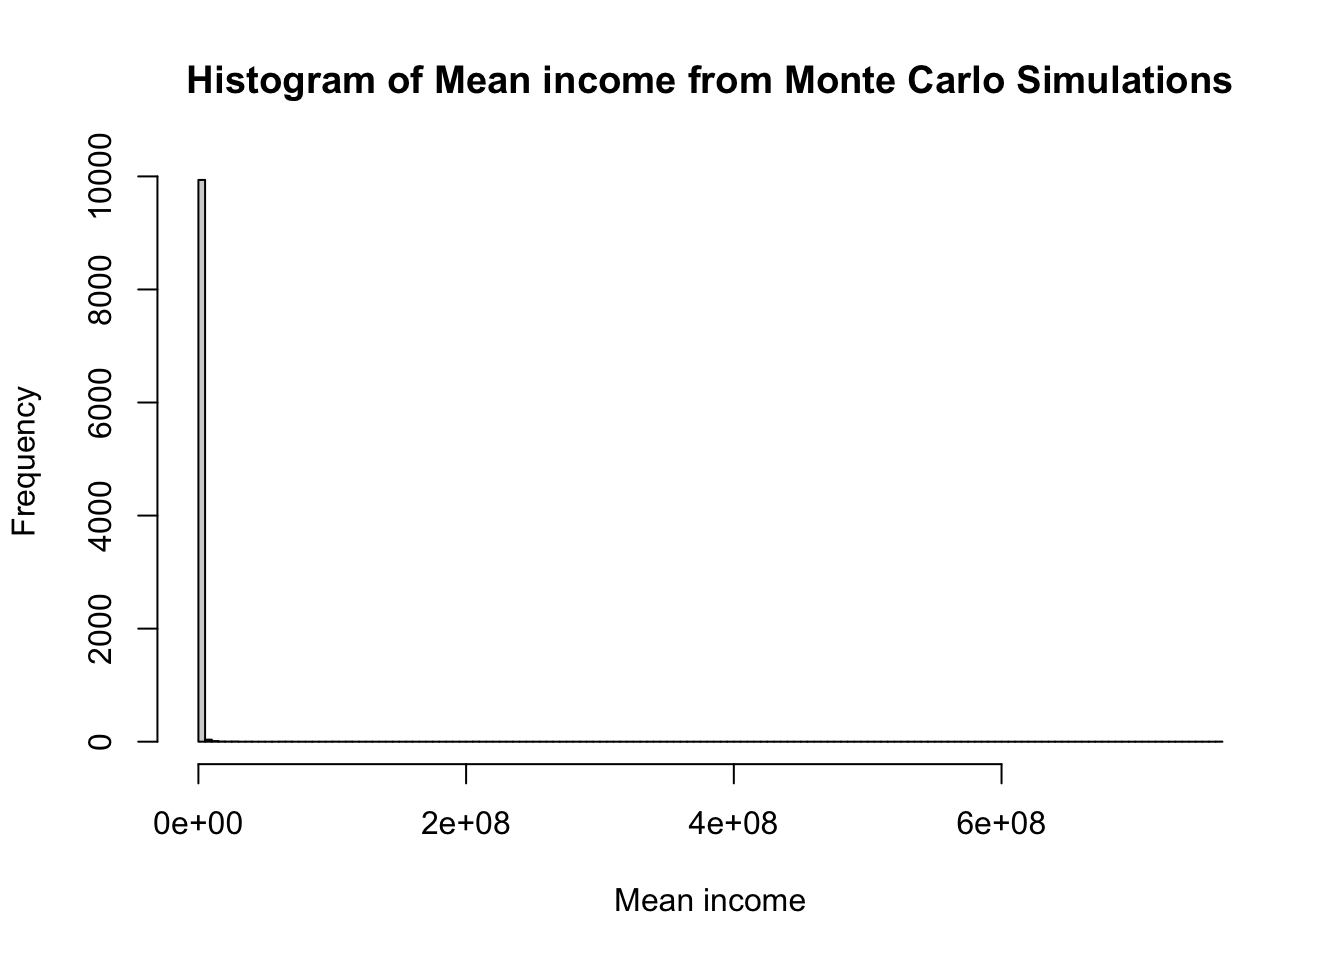
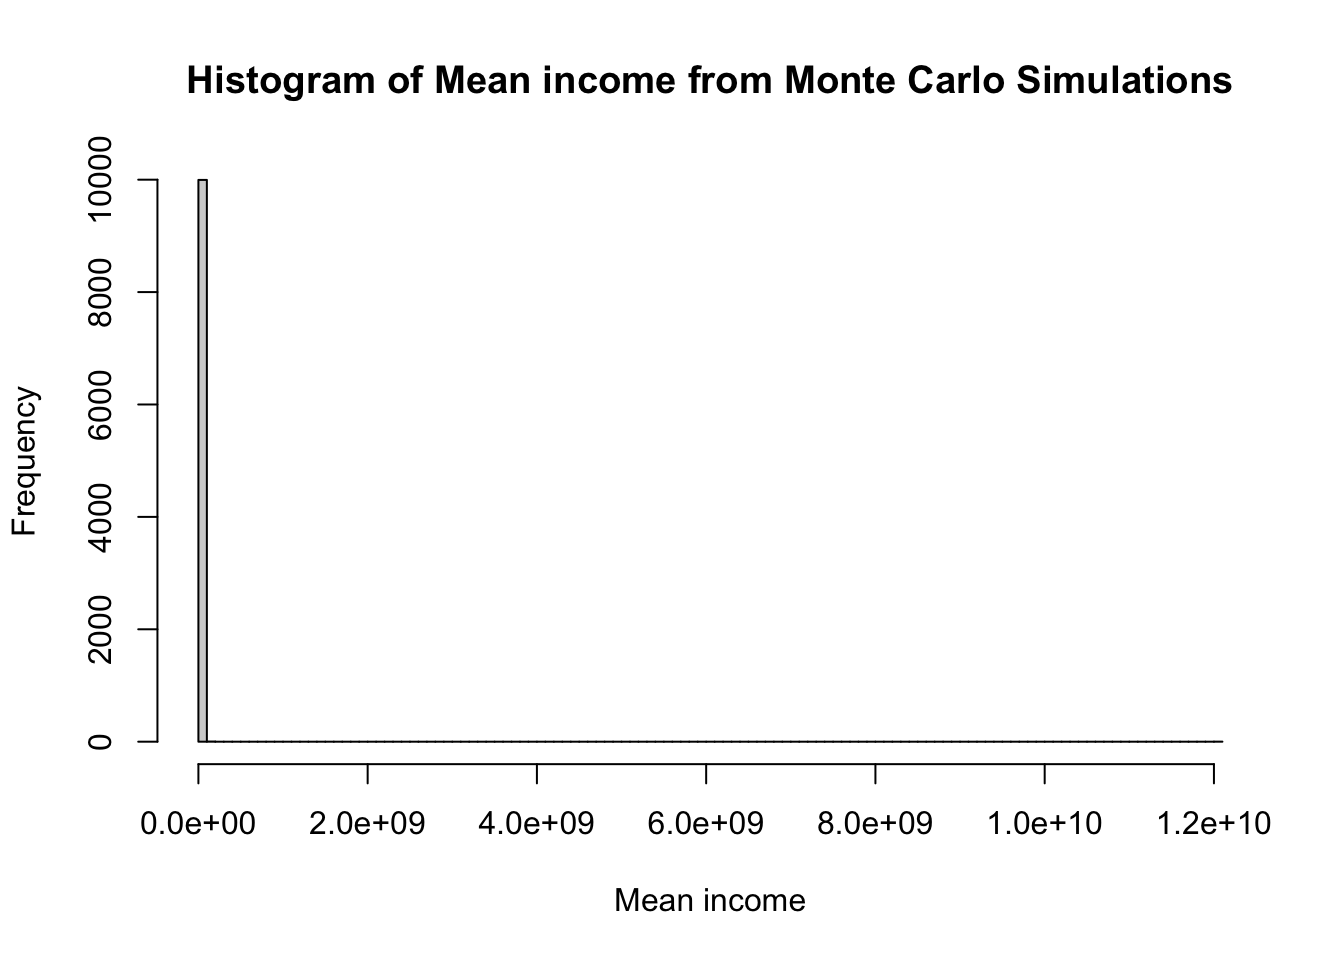
after quarto problem 281124

diff --git a/docs/posts/montecarlo.html b/docs/posts/montecarlo.html
@@ -1977,7 +1977,7 @@ Income distribution is not normal
 </details>
 <div class="cell-output cell-output-stdout">
 <pre><code>     Min.   1st Qu.    Median      Mean   3rd Qu.      Max. 
-   205993    297543    346723    636755    444049 764563628 </code></pre>
+2.114e+05 2.958e+05 3.430e+05 1.767e+06 4.386e+05 1.201e+10 </code></pre>
 </div>
 <details open="" class="code-fold">
 <summary>Code</summary>
@@ -1985,7 +1985,7 @@ Income distribution is not normal
 </details>
 <div class="cell-output cell-output-stdout">
 <pre><code>   Min. 1st Qu.  Median    Mean 3rd Qu.    Max. 
-  62017   64064   64496   64503   64936   66958 </code></pre>
+  61970   64072   64504   64510   64942   67368 </code></pre>
 </div>
 <details open="" class="code-fold">
 <summary>Code</summary>
@@ -1993,7 +1993,7 @@ Income distribution is not normal
 </details>
 <div class="cell-output cell-output-stdout">
 <pre><code>     Min.   1st Qu.    Median      Mean   3rd Qu.      Max. 
-7.628e+05 3.372e+06 5.851e+06 3.409e+07 1.247e+07 7.643e+10 </code></pre>
+8.884e+05 3.287e+06 5.662e+06 1.473e+08 1.186e+07 1.201e+12 </code></pre>
 </div>
 </div>
 </section>

diff --git a/docs/Biomedical/Research Methodology/wrangling.html b/docs/Biomedical/Research Methodology/wrangling.html
@@ -3273,11 +3273,11 @@ Record
 <pre><code>     age   sex  class
    &lt;int&gt; &lt;int&gt; &lt;fctr&gt;
 1:     1     1  child
-2:     2     0  child
-3:     3     0  child
-4:     4     0  child
+2:     2     1  child
+3:     3     1  child
+4:     4     1  child
 5:     5     1  child
-6:     6     0  child</code></pre>
+6:     6     1  child</code></pre>
 </div>
 </div>
 <section id="making-data-wide" class="level3">
@@ -3296,11 +3296,11 @@ Record
      age      0      1
    &lt;int&gt; &lt;fctr&gt; &lt;fctr&gt;
 1:     1   &lt;NA&gt;  child
-2:     2  child   &lt;NA&gt;
-3:     3  child   &lt;NA&gt;
-4:     4  child   &lt;NA&gt;
+2:     2   &lt;NA&gt;  child
+3:     3   &lt;NA&gt;  child
+4:     4   &lt;NA&gt;  child
 5:     5   &lt;NA&gt;  child
-6:     6  child   &lt;NA&gt;</code></pre>
+6:     6   &lt;NA&gt;  child</code></pre>
 </div>
 </div>
 
